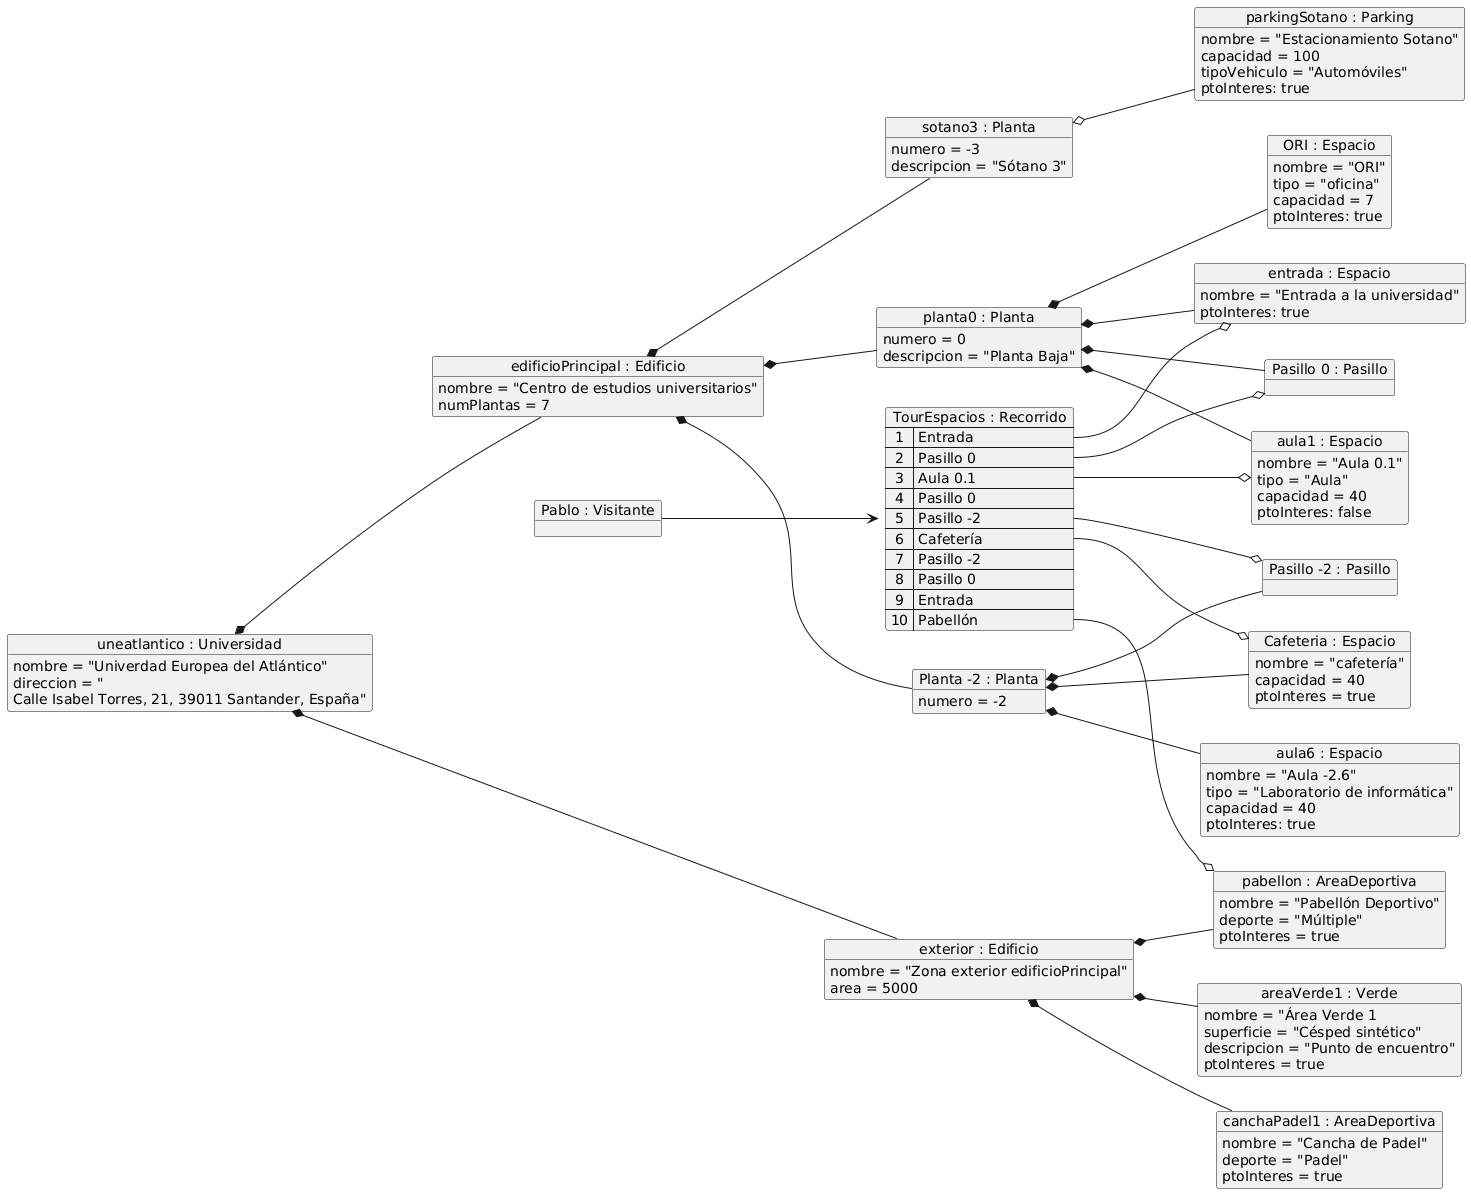
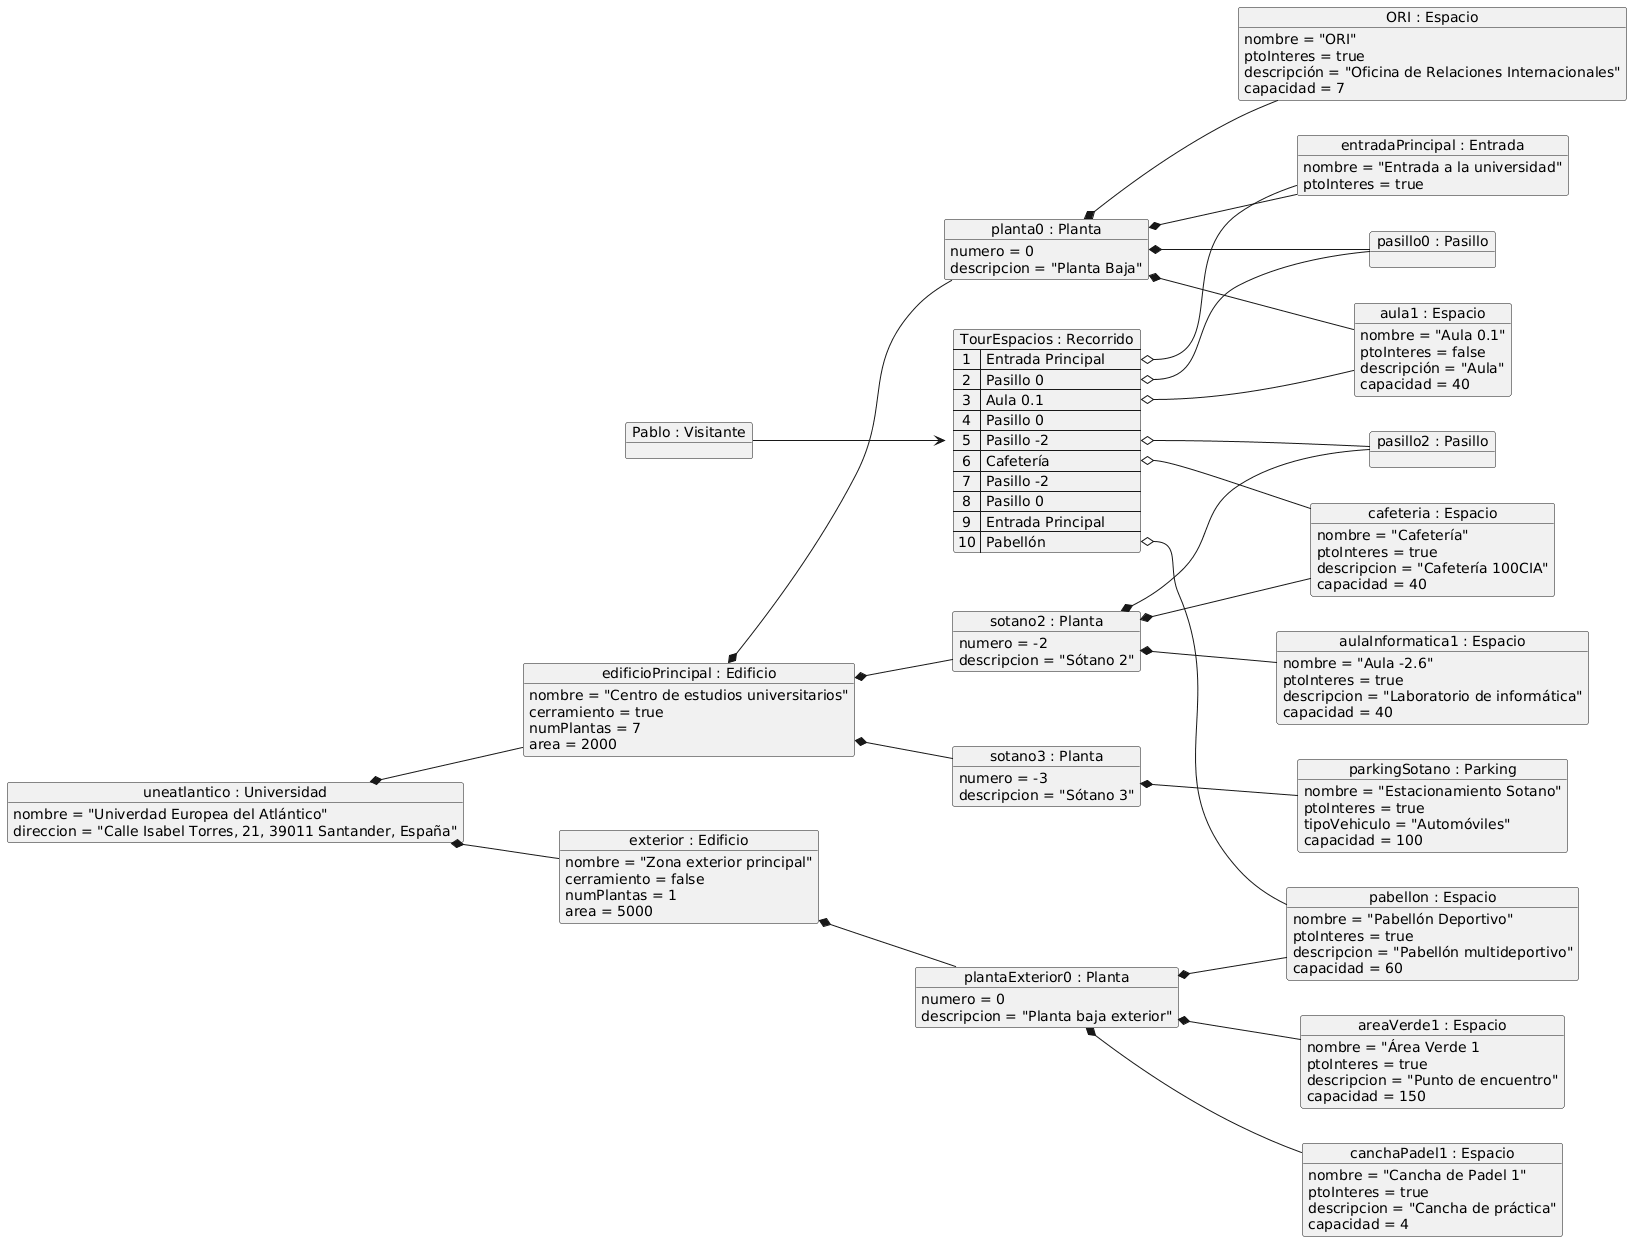
fix: updating object diagram to have the same attributes and inheritance attributes

diff --git a/documentos/00-modeloDeDominio/README.md b/documentos/00-modeloDeDominio/README.md
@@ -63,7 +63,7 @@ La aplicación busca ayudar a estudiantes y visitantes a orientarse y acceder a 
 
 ### Visitante
 
-| [![Diagrama de estados de visitante](/documentos/00-modeloDeDominio/DiagramaDeEstados/DdEVisitante/diagramaDeEstados.png)](./DiagramaDeEstados/DdEVisitante/diagramaDeEstados.png) |
+| [![Diagrama de estados de visitante](./DiagramaDeEstados/DdEVisitante/diagramaDeEstados.png)](./DiagramaDeEstados/DdEVisitante/diagramaDeEstados.png) |
 |:-:|
 | [Código fuente](./DiagramaDeEstados/DdEVisitante/diagramaDeEstados.puml) |
 
@@ -75,7 +75,6 @@ La aplicación busca ayudar a estudiantes y visitantes a orientarse y acceder a 
 
 </div>
 
----
 ## Diagrama de Objetos
 
 <div align="center">
